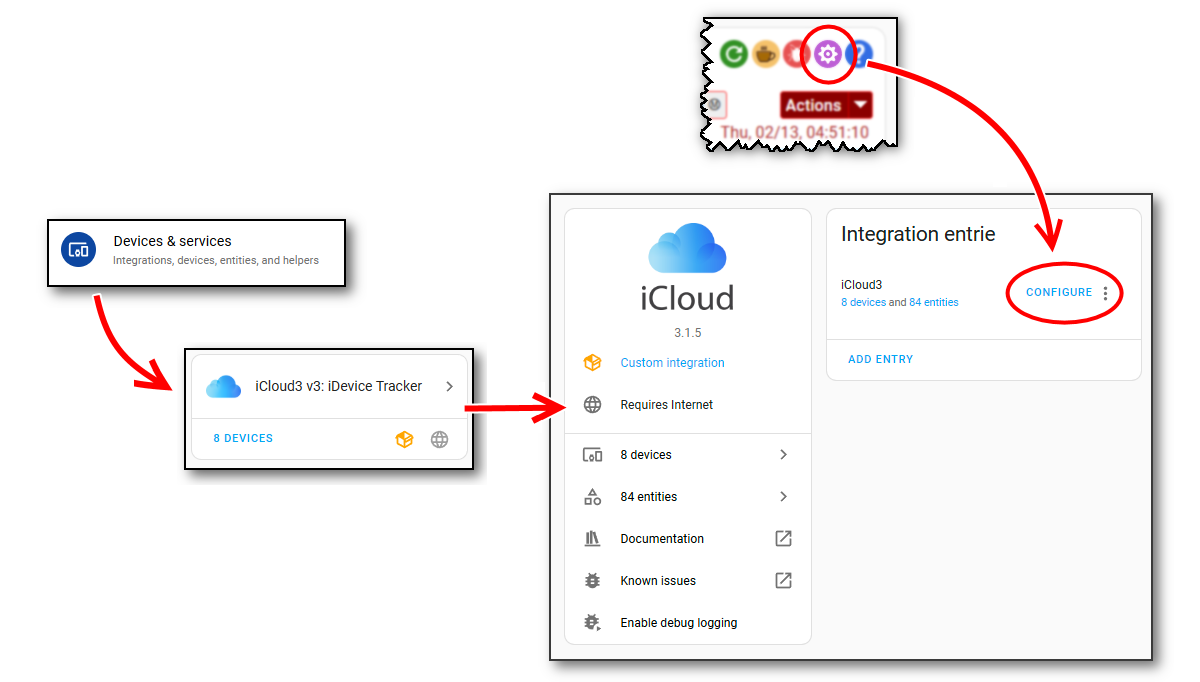
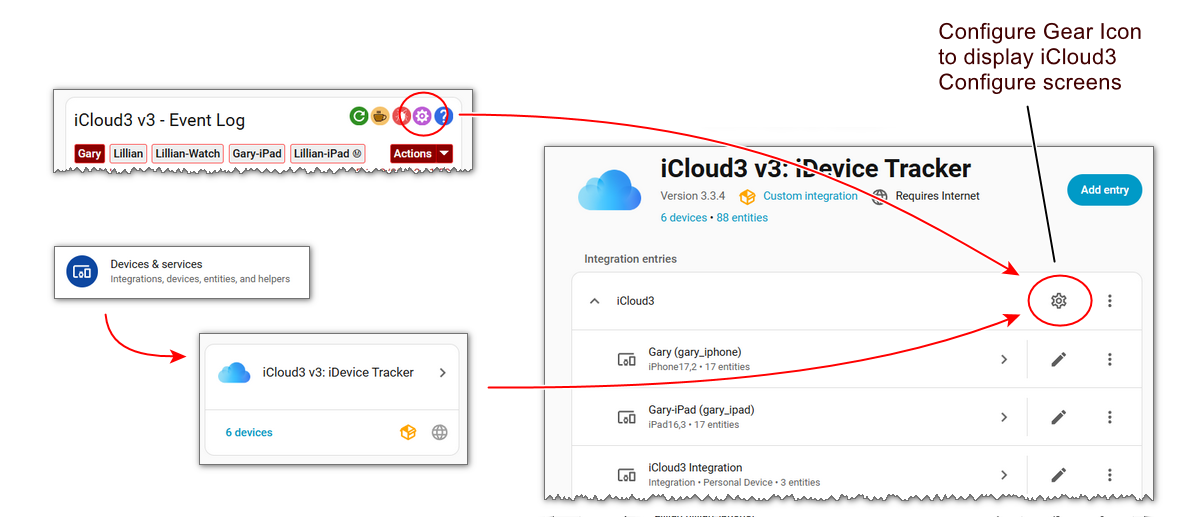
docs

diff --git a/docs/chapters/1_getting-started-installing.md b/docs/chapters/1_getting-started-installing.md
@@ -1,31 +1,25 @@
 
 
-# Installing iCloud3, Setting up the HA Mobile App
+# Installing the iCloud3 Integration
 
 There are several steps that that need to be done to install and start using iCloud3 to track your devices. They are:
 
-1. Install iCloud3 from HACS (or manually).
-2. Install and configure the HA Mobile App if you are using it on any of your tracked devices. 
-3. Set up the Lovelace Resource entry for the Event Log custom card component.
-4. Add the iCloud3 integrations component which adds iCloud3 and it's *Configure Settings* screens. 
-5. Open the *Configure Settings > Menu Page 1* screen. 
-6. Open the *iCloud Account & Mobile App* screen and set up your Apple iCloud account.
-7. Log into your iCloud account and enter the 6-digit verification code. 
-8. Open the *iCloud3 Tracked Devices* and add your iPhone to the tracked device list. 
-9. Set up a Lovelace card for for your iPhone.
-10. Set up a Lovelace card for the Event Log. 
-11. Restart Home Assistant.
+1. Install iCloud3 from HACS (or add it manually).
+2. Install and configure the HA Mobile App if you are using it on any of your tracked devices (optional). 
+3. Add the iCloud3 integrations component which adds iCloud3 and it's *Configure Settings* screens. 
+4. Click the Gear Icon on the iCloud3 Integration screen to display *Configure Devices & Sensors* screen. 
+5. Add your Apple Account on the *iCloud Account & Mobile App* screen.
+6. Approve iCloud3 signing into your Apple Account on the *Authenticate Apple Acct Sign-in* screen
+7. Add iCloud3 devices you want to track on the *iCloud3 Devices* screen.
 
-These steps are described below.
+Steps 1-3 are described below. Steps 5-7 (Adding and authenticating the Apple Account and adding tracked devices) are discussed later.
 
 
 ------
 
 ###  Installing iCloud3
 
-iCloud3 is not available on the HACS base integration yet. It will be added as an update to iCloud3 v2 once it has been released for general usage and has a sufficient number of users to insure a smooth transition. There are almost 7000 users now and  supporting a large number of people that might upgrade it at the same time is not feasible.
-
-However, it can be added to HACS as a custom repository. This provides all the benefits of HACS and ensures a smooth rollout.
+iCloud3 is available on the HACS and is installed using the same process as other HACS custom components.
 
 - **Using HACS to install iCloud3**
   1. Open HACS.
@@ -33,28 +27,28 @@ However, it can be added to HACS as a custom repository. This provides all the b
   3. Select the **iCloud3 v3, iDevice Tracker** item, then select **+Download** to download iCloud3 and follow the normal steps for installing an integration using HACS.
 
 - **Manual Installation from the iCloud3 Repository Releases Page**
-  1. Download the *icloud3.zip* file from the *gcobb321/icloud3 iCloud3 GitHub Repository Releases* page [here](https://github.com/gcobb321/icloud3/releases). Selects *Assets* at the bottom, then the zip file. The file save screen is displayed, select the location on your computer and save the zip file.
+  1. Download the *icloud3 v3.x.x.zip* file from the *gcobb321/icloud3 iCloud3 GitHub Repository Releases* page [here](https://github.com/gcobb321/icloud3/releases). Selects *Assets* at the bottom, then the zip file. The file save screen is displayed, select the location on your computer and save the zip file.
   2. Unzip the file into the *config/custom_components/icloud3* directory on your Home Assistant server (ex.: Raspberry Pi)
-  3. **Restart Home Assistant**
+  3. Restart Home Assistant
 
 
 
 ------
 
-### (Optional) Installing the iCloud3 v3 Development Version (HACS Custom Installation)
+### Prelease versions are on the iCloud3 v3 Development Version GitHub Repository
 
 New features are added to iCloud3 Development Version before they are released to the General Availability version on HACS. This Beta version can be added to HACS as a Custom Repository. Follow the instructions below:
 
 - **Adding the iCloud3 Development Edition to HACS**
 
   1. Open HACS
-  2. Select the 3-dots in the upper-right corner, then select *Custom Repository*.
+  2. Select the 3-dots in the upper-right corner, then select *Custom Repositories*.
   3. Enter the following values in the fields displayed:
      - Repository: `gcobb321/icloud3_v3`
      - Category: `Integration`
   4. Select **Add**
 
-   ![](C:\Users\Gary\GitHub\icloud3_v3_docs\docs\images\hacs-process-highlighted.png)
+  ![](C:\Users\Gary\GitHub\icloud3_v3_docs\docs\images\hacs-add-ic3-custom-repo.png)
 
   *Notes*:
 
@@ -62,7 +56,7 @@ New features are added to iCloud3 Development Version before they are released t
 
   2. Monitor the gcobb321/icloud3_v3 Issues page for an announcement that a new release is available.
 
-  3. Download the *icloud3.zip* file from the *gcobb321/icloud3_v3 iCloud3 GitHub Repository Releases* page [here](https://github.com/gcobb321/icloud3_v3/releases). Follow the Manual instructions above. 
+  3. Download the *icloud3.v3.x.x.zip* file from the *gcobb321/icloud3_v3 iCloud3 GitHub Repository Releases* page [here](https://github.com/gcobb321/icloud3_v3/releases). Follow the Manual instructions above. 
 
      
 
@@ -75,13 +69,12 @@ iCloud3 is a Home Assistant Integration and is configured on the Integrations sc
 
 1. Select **☰ > HA Settings > Devices & Services > Integrations**.
 2. Select **+ Add Integration** in the lower-right hand corner.
-3. Type **iCloud3**. Then select **iCloud3 v3** from the list of Integrations. *Do not select iCloud3, it is v2.4 if it is displayed.* The iCloud3 v3 entry will be added to the *Integrations* screen.
-4. Open the *Configure Settings* screen.
-   - Event Log has not been set - Select **☰ > HA  Settings > Devices & Services > Integrations**.
-   - Event Log has been set up - Select the **Configure iCloud3 Settings** icon (gear) on the **Event Log**.
-5. Select **iCloud3 > Configure**.
-
-
+3. Type **iCloud3**. Then select **iCloud3 v3** from the list of Integrations. The iCloud3 v3 entry will be added to the *Integrations* screen.
+4. Open the *iCloud3 Configure screen* as depicted below.
+   - Event Log has not been set:
+     - Select **☰ > HA  Settings > Devices & Services > Integrations  > iCloud3  > Configure Gear Icon**.
+   - Event Log has been set up:
+     - Select the **Event Log > Purple Configure Gear Icon  > Configure Gear Icon**.
 
 ![](C:\Users\Gary\GitHub\icloud3_v3_docs\docs\images\cf-configure.png)
 

diff --git a/docs/chapters/1_getting-stated-mobile-app.md b/docs/chapters/1_getting-stated-mobile-app.md
@@ -1,0 +1,67 @@
+# Using HA Companion Mobile App  for Location Data<!-- {docsify-ignore} -->
+
+iCloud3 monitors the Mobile App device_tracker entity and several sensors for:
+
+- zone enter/exit triggers
+- location changes
+- battery level updates. 
+
+The sensors are monitored for changed data every 5-seconds. iCloud3 also sends messages to the Mobile App when an error occurs and when a location update from the Mobile App is needed.
+
+## Results of not installing the Mobile App
+
+iCloud3 does not require the Mobile App to be installed on an iPhone or iPad. However, if it is not installed, the following happens:
+
+- iCloud3 will not react to a Zone Enter or Exit events until the phone's *Next Update Event* time. This will delay the device entering a zone or exiting from it.
+- Significant location changes will not be available.
+- The device's battery level is not available.
+- Notifications can not be sent to the device.
+- In this case, a short *inZone Interval* will help reduce the time between location updates.
+
+The documentation for the Home Assistant Companion can be found [here](https://companion.home-assistant.io/). It is very extensive and explains how to set it up and use it.  ay particular attention to:
+- Setting it up [here](https://companion.home-assistant.io/docs/getting_started/)
+- Location [here](https://companion.home-assistant.io/docs/core/location)
+- Sensors [here](https://companion.home-assistant.io/docs/core/sensors)
+- Notifications [here](https://companion.home-assistant.io/docs/noticationsnotifications-basic)
+
+## The Apple Watch cannot be tracked with the Mobile App
+
+Only iPhones and iPads with the Mobile App installed are monitored. Although there is an HA Complication that can be installed on the Apple Watch, it does not provide location information so it is not monitored. iCloud3 attempts to trigger zone exits by requesting an Apple Account location update when a nearby iPhone or iPad receives a zone exit trigger.
+
+## Add the Mobile App Integration
+
+The Mobile App Integration is added to HA on the Integrations screen. It provides the link between the device itself and the device_tracker and sensor entities on the HA sever. There are a lot of sensor entities created by the Mobile App. iCloud3 monitors the only the _device_tracker_ entity, the _last_update_trigger_ sensor and the _battery_ sensor. The rest can be disabled, hidden or left alone.
+
+## Configure the Mobile App for location updates
+
+The screens below shows the configuration settings for the Mobile App:
+
+![](../images/mobapp-config.png)
+
+## Assign the Mobile App device_tracker to the iCloud3 tracked device
+
+The Mobile App device is assigned to the the iCloud3 tracked device on the *Configure > Update iCloud3 Device* screen, *Mobile App device_tracker entity* field. It is selected from the list of available Mobile App devices.
+
+## The Event Log shows devices that provide location data
+
+When iCloud3 starts, Stage 4 handles setting up the Apple Account and Mobile App devices. The following is done:
+
+- Read all of the devices in the Mobile App integration
+- Match them up with the iCloud3 device using the Mobile App device_tracker parameter from the *Update iCloud3 Device* screen
+- Errors are identified. This includes missing device_tracker entities, duplicate devices, etc.
+
+The results are shown in the *Event Log > Stage 4* screens. 
+
+![](../images/evlog-stage-4-notes.png)
+
+
+
+## Clearing the Mobile App Cache
+
+The cache needs to be cleared when a new version of the Event Log is installed. This does not happen very often, usually when major iCloud3 version is released. A message, with instructions, is displayed when this is needed. It will need to be cleared on every device (iPhones, iPads) that is using the Mobile App. 
+
+1. In the *Home Assistant Companion App*, tap **☰ > HA Settings > Companion App.**
+2. Tap **Debugging > Reset front end cache**
+3. Tap **Settings > Done**
+4. Refresh the screen by pulling down on it until the refresh symbol displays. This will reload the screen and iCloud3 Event Log from the HA server.
+

diff --git a/docs/chapters/1_getting-started-components.md b/docs/chapters/1_getting-started-components.md
@@ -30,13 +30,11 @@ The screens below show examples of a tracked device's current status. The follow
 - Gary is tracking from Home and the Quail Zone, Lillian just from Home.
 - The *Info* field shows tracking results from nearby devices is being used.
 
-![](C:\Users\Gary\GitHub\icloud3_v3_docs\docs\images\track-gary-home-lillian-away-captions.png)
-
-
+![](..\images\track-gary-home-lillian-away-captions.png)
 
 ### Event Log
 
-The Event Log is a Lovelace custom card that shows past and current activity related to tracking a device. The right side of the *Information screen showing Tracking Information* above is the *Event Log*. The *Event Log* shows:
+The Event Log is a Lovelace custom card that shows past and current activity related to tracking a device. The right side of the image below shows device tracking results. The *Event Log* also shows:
 
 - Startup configuration.
 - Device information for Apple account and Mobile App devices and entities
@@ -44,7 +42,7 @@ The Event Log is a Lovelace custom card that shows past and current activity rel
 - Error messages, problems and location data issues
 - Detail tracking monitors that show what is going on under the covers, how location data from the iCloud Location Services and the Mobile App is analyzed and processed
 
-
+![](..\images\track-evlog-gary-tfz-away.png)
 
 ### Configure Settings
 
@@ -62,7 +60,7 @@ The iCloud3 configuration screens are used to:
 
 ### Dashboard Builder
 
-The Dashboard Builder is a tool that will create and update dashboards showing iCloud3 tracking results and other device information provided by iCloud3. It is added to the HA Sidebar panel when it is created and can be edited using the HA Dashboard Editor in the same manner as other dashboards. It's name starts with *iCloud3-#* and can be changed to meet your needs. There is no limit to the number of iCloud3 dashboards that can be created.
+The Dashboard Builder is a tool that will create and update dashboards showing iCloud3 tracking results and other device information provided by iCloud3. It is added to the HA Sidebar panel when it is created and can be edited using the HA Dashboard Editor in the same manner as other dashboards. It's name starts with *iCloud3-#* and can be changed to meet your needs. There is no limit to the number of iCloud3 dashboards that can be created.  The screen above was created by the Dashboard Builder. 
 
 !> When the iCloud3 Integration is install the first time, the *iCloud3* is created and added to the HA Sidebar panel.
 
